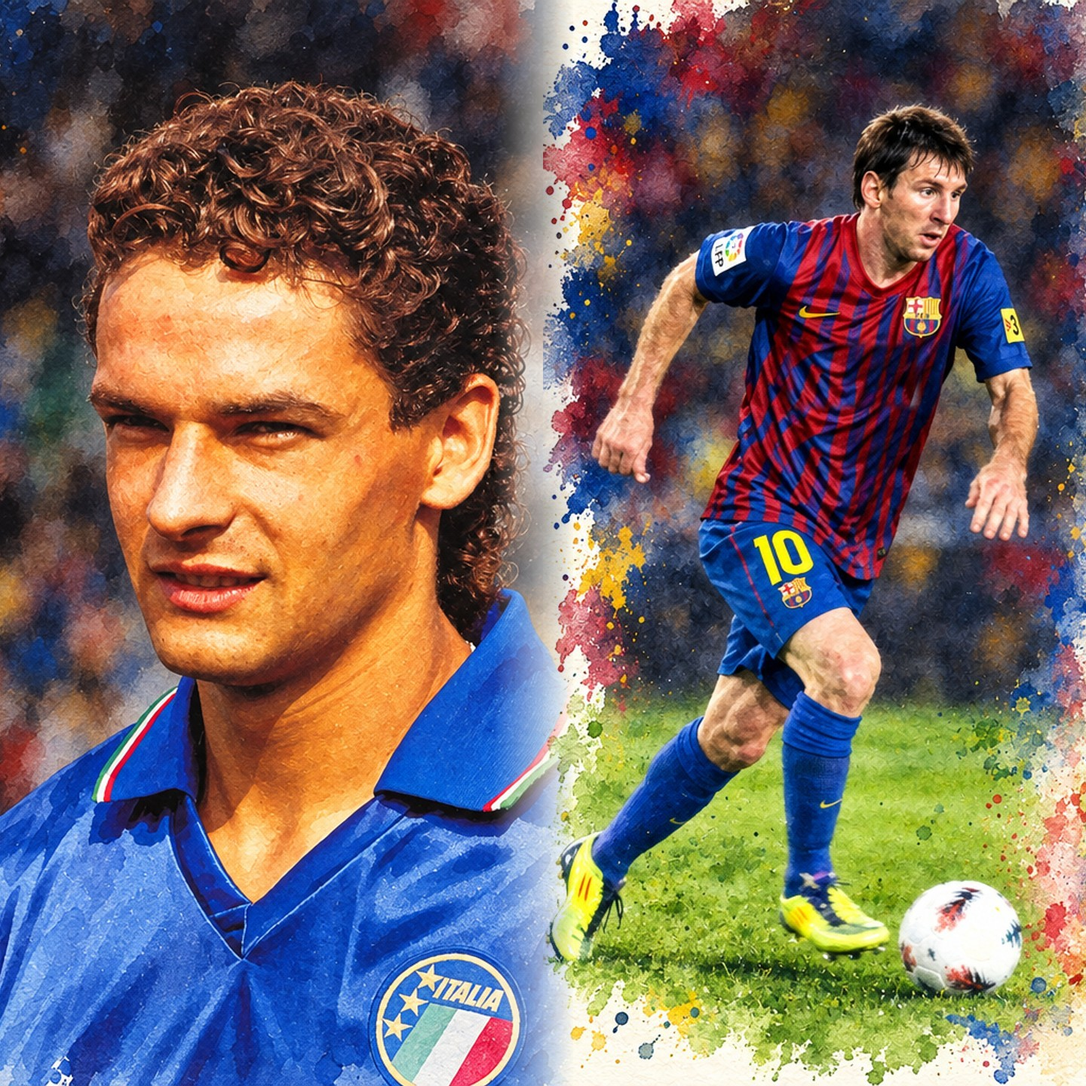
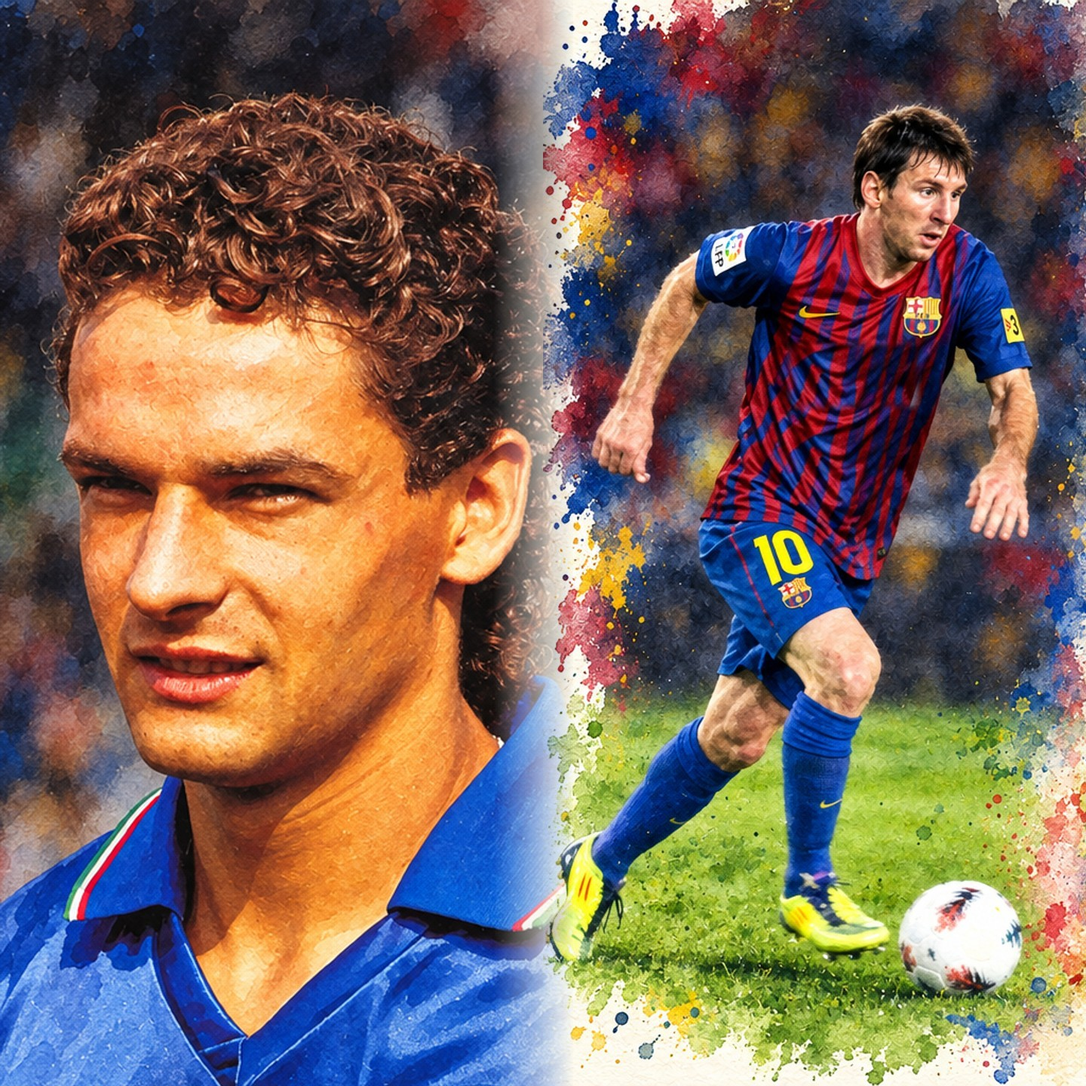
Second named outlets for 017, 026, 028, 031; 16 Nov picture and card 2 fixed to the picture standard
- 017 Pirlo's boyhood idol and free transfer, 026 Michel Goba and Le Mans in Ligue 2, 028 youth players, Porto 2-0 and
  Rijkaard sending Messi on, 031 the winning penalty: each now on two outlets, searches restricted to one outlet each
- 031: "counted as the 1,000th goal" (a 1995 recount put it on 14 Nov; 19 Nov is the accepted date)
- 028: Baggio zoomed so the Italy crest is out of frame, not cut; Messi unchanged; kit exceptions recorded as
  owner-approved; fact 1 reworded so the 1-0 score no longer breaks across two lines on card 2
- stale story numbers in 026, 028 and 031 logs

Claude-Session: https://claude.ai/code/session_01KFrvz6d1CHFi9rozrKkMUw

diff --git a/docs/fact-checks/028.md b/docs/fact-checks/028.md
@@ -1,6 +1,6 @@
 # Fact-check log: 028 Baggio v Messi / Two debuts on 16 November, and the man who was at both
 
-Slot: Monday 16 November 2026 ("On this day" comparison). Not a story-bank angle. Rewritten 26 October 2026 from the earlier Henry v Baggio draft, because Henry is already on 1 November (Henry v Kaká). The Henry material is kept in alternatives.md.
+Slot: Monday 16 November 2026 ("On this day" comparison). Not a story-bank angle. Rewritten 26 October 2026 from the earlier Henry v Baggio draft, because Henry is already on 1 November (Henry v Kaká). The Henry material is not used anywhere (the drafts folder and its alternatives.md were cleared on 26 Oct).
 
 Checked 26 October 2026. Method note: page fetching is blocked from this session (WebFetch cannot reach any site), so every claim was checked against web-search result excerpts and the search tool's summaries of the pages named below, not by opening the full pages. Searches were restricted to named outlets (allowed domains) so that each excerpt can be attributed to one outlet. Where the tool summarised several pages in one sentence without saying which page said what, the row says "per search summary" and lists the pages returned. One row rests on a row already confirmed in this repository's own log docs/fact-checks/008.md; its sources are named as logged there. Before scheduling, an editor should open the 11v11 and eu-football.info match pages for Italy v Netherlands (16 Nov 1988) to see Frank Rijkaard in the Dutch line-up, and FC Barcelona's "21 years since Leo Messi debuted" page.
 
@@ -12,10 +12,10 @@ Living-persons rule: Baggio, Messi, Rijkaard, Van Basten, Gullit, Sacchi, Mourin
 | He was 21 (born 18 Feb 1967) | ESPN Roberto Baggio biography ("Birthdate 2/18/1967") | Goal.com (Turkish) Baggio profile ("18 Şubat 1967'de ... Caldogno") | Confirmed. 18 Feb 1967 to 16 Nov 1988 = 21. |
 | 16 Nov 2003: Messi's first game for Barcelona's first team, a friendly at Porto; he was 16 | FC Barcelona "21 years since Leo Messi debuted for FC Barcelona" and "All time stats for Messi in the Barça youth teams" (16 years 145 days) | UEFA, per search summary ("16 years, four months and 23 days", the same day count); Goal.com (Spanish) "A 20 años del ... debut de Messi"; ESPN Deportes "Hace 15 años Lionel Messi debutaba con primer equipo del Barça" | Confirmed. Exact age differs in one outlier (Sky Sports: 16 years 157 days): the text says only "16". |
 | The match was the first game at Porto's new stadium, the Estádio do Dragão | UEFA.com "Porto enter the dragon" (17 Nov 2003: stadium inaugurated the night before with a friendly, FC Porto v FC Barcelona) | FC Barcelona "21 years since..." (came on "to open Porto's new ground"); Goal.com (Mexico) Estádio do Dragão guide ("inaugurado el 16 de noviembre de 2003 en un amistoso entre el Porto y el Barcelona") | Confirmed. "Built for Euro 2004" not checked: not used. |
-| Barcelona's side that night included several youth players | FC Barcelona, per search summary ("The first team needed youth players to play in a friendly against Porto at the opening of the Estadio Do Dragao") | ESPN Deportes, per search summary (Barcelona, "with many youth players", lost 2–0) | Confirmed in substance; worded as "included several youth players". Why they were needed (internationals away) not checked: not used. |
-| Messi came on in the second half, for Fernando Navarro | FC Barcelona "21 years since..." (71st minute, for Navarro) and "Ten years since Leo Messi's debut" (75th minute, for Navarro) | Goal.com (Spanish), per search summary (75th minute, for Navarro; another Goal piece 71st) | Confirmed. The minute differs (71 or 75): the text says only "in the second half". |
-| Porto won 2–0 | ESPN Deportes, per search summary (Barcelona "lost 2-0") | Goal.com, per search summary ("Porto's 2-0 win"); FC Barcelona "17 years since Leo Messi's debut", per search summary ("The Catalans lost 2-0") | Confirmed. |
-| Barcelona's coach was Frank Rijkaard, and he sent Messi on | FC Barcelona, per search summary ("Coach Frank Rijkaard sent him on the 71st minute") | Goal.com, per search summary ("Frank Rijkaard introduced the 16-year-old in the 71st minute") | Confirmed. |
+| Barcelona's side that night included several youth players | FC Barcelona (search restricted to fcbarcelona.com; "All time stats for Messi in the Barça youth teams", "17 years since Leo Messi's debut" and "20 years since Leo Messi debuted for FC Barcelona" listed): "Frank Rijkaard was the manager and he decided to take a number of players from the U19 team to Portugal" | ESPN Deportes (search restricted to espndeportes.espn.com; "A 17 años del debut de Messi con el Barcelona: ¿Qué pasó con los cinco jóvenes que tuvieron su oportunidad con el argentino?" listed first): "Un Barça con muchos canteranos cayó 2-0 ante el Porto de José Mourinho"; the headline counts five young players given their chance alongside Messi. Also Goal (search restricted to goal.com), "El año que Lionel Messi voló: del Juvenil B al primer equipo en solo seis meses": "Messi, como las otras perlas del juvenil, como Jordi Gómez, Oriol Riera o Xavi Girard, viajó hasta Oporto" | Confirmed (fourth pass): two named outlets, each from a search restricted to that outlet, plus Goal; the earlier "per search summary" excerpts are replaced. The lists of names differ (three to five youth players, e.g. Oriol Riera, Jordi Gómez, Manel Expósito, Xavier Ginard, Tiago Calvano), so the text keeps "several" and names none. Why they were needed (internationals away) not checked: not used. |
+| Messi came on in the second half, for Fernando Navarro | FC Barcelona "21 years since..." (71st minute, for Navarro) and "Ten years since Leo Messi's debut" (75th minute, for Navarro) | Goal.com (Spanish), per search summary (75th minute, for Navarro; another Goal piece 71st) | Confirmed. The minute differs (71 or 75; FC Barcelona's match record has 74): the text says only "in the second half". Fourth pass: the FC Barcelona excerpt in the Rijkaard row ("in place of Fernando Navarro", fcbarcelona.com only) and ESPN Deportes (search restricted to espndeportes.espn.com: "Lionel Messi entró al partido en el minuto 75 de juego, en sustitución de Fernando Navarro") now cover Navarro from restricted searches. |
+| Porto won 2–0 | FC Barcelona (search restricted to fcbarcelona.com): "In the game at the Estadio do Dragao, which Barça would lose 2-0, coach Frank Rijkaard brought Messi on in the 71st minute in place of Fernando Navarro"; the club's match record "Porto - Barcelona (2-0) - Friendly - 16/11/2003" (players.fcbarcelona.com) | Goal (search restricted to goal.com; "A 20 años del día que cambió la historia del fútbol: el debut de Messi con el FC Barcelona" and "14 años del debut de Messi que lo enfrentó a Mourinho" listed): Porto ended up winning 2-0 in the inauguration of their new stadium (summary). Also ESPN Deportes (search restricted to espndeportes.espn.com): "Un Barça con muchos canteranos cayó 2-0 ante el Porto de José Mourinho" | Confirmed (fourth pass): two named outlets, each from a search restricted to that outlet, plus ESPN Deportes; the earlier "per search summary" excerpts are replaced. Note: the summary of a second goal.com-only search misread the score as a Barcelona win; the goal.com score search above and every other outlet give Porto 2–0. |
+| Barcelona's coach was Frank Rijkaard, and he sent Messi on (body; also title, dek, hook and fact card 4) | FC Barcelona (search restricted to fcbarcelona.com; "16 years since Messi's debut", "17 years since Leo Messi's debut" and "22 years since Leo Messi debuted for FC Barcelona" listed): "In the game at the Estadio do Dragao, which Barça would lose 2-0, coach Frank Rijkaard brought Messi on in the 71st minute in place of Fernando Navarro" | Goal (search restricted to goal.com), "Lionel Messi reveals shock 'childhood dream' that was scotched by Barcelona debut": "Frank Rijkaard introduced the 16-year-old in the 71st minute". Also ESPN Deportes (search restricted to espndeportes.espn.com): Rijkaard called Messi up with five other youth players for the match, and Messi came on for Navarro (summary) | Confirmed (fourth pass): two named outlets, each from a search restricted to that outlet, with wording that names Rijkaard as the one who brought Messi on; the earlier "per search summary" excerpts are replaced. A uefa.com-only search confirmed the friendly and Mourinho's Porto but did not name who sent Messi on. Title, dek, hook and card 4 stand. |
 | His first official game came 11 months later, a 1–0 win at Espanyol; he was 17 | FC Barcelona "16 years today since Leo Messi's debut" (16 Oct 2004) | Goal.com (Argentina) "Lionel Messi debutó con el Barcelona ante el Espanyol"; per search summary: Montjuïc, 1–0, aged 17 years 3 months 22 days | Confirmed. "Youngest official player" claims (later broken) not used. |
 | In 1985, aged 18, Baggio badly injured his right knee playing for Vicenza against Rimini | FIFA (German) "Italiens göttliche Grazie" (serious right-knee injury in the last match of 1984/85, against Rimini) | ESPN "Fiorentina's 'Baggio' bet on Rossi" (3 May 1985, Vicenza v Rimini, right knee) | Confirmed. Aged 18 by arithmetic (born Feb 1967). The exact damage (cruciate or meniscus) and that it came two days after he agreed to join Fiorentina are ESPN only: **not used**. |
 | He was out for more than a year | FIFA (German) (about a year and a half before he could play again) | ESPN (returned for his Serie A debut on 21 Sept 1986, about 16 months later) | Confirmed; the length differs slightly, so the text says "more than a year". |
@@ -38,4 +38,8 @@ Wording: the body says "On 16 November 1988/2003" (not "On this day") because th
 
 Cut or not used, for want of a second source or because sources conflict: Messi's exact age in days (one outlier) and the minute he came on (71 or 75); why Barcelona needed youth players; Mourinho being "the first to be surprised" by Messi (Goal only); Baggio's cruciate/meniscus damage and the "two days after signing for Fiorentina" detail (ESPN only); Fiorentina waiting for him (ESPN only); Sacchi described as "young"; Gianluca Vialli as the scorer of Italy's goal (44') and Baggio's assist (summary-level only; Vialli's goal appears in two summaries but was not needed); the venue (Stadio Olimpico) and attendance of Italy v Netherlands; the Dutch coach (Libregts or Michels); the FIGC 90th-anniversary context (a governing-body angle the owner rules out); Messi's "youngest official player" record; the Dragão being built for Euro 2004.
 
-Picture (26 Oct, approved by the owner): OpenAI's image filter refused every new Messi painting this day (five requests, no reason given) while Baggio painted normally. The owner chose a composite: Baggio painted from the public-domain Italia '90 photo, and Messi taken from the approved 29 Oct painting (Jeroen Bennink's 2011 photo, CC BY 2.0), with the 2011-12 Qatar Foundation sponsor removed. His shirt keeps the 2011-12 design and the number 10 on the shorts, not the 2003 debut kit.
+Picture (26 Oct, approved by the owner): OpenAI's image filter refused every new Messi painting this day (five requests, no reason given) while Baggio painted normally. The owner chose a composite: Baggio painted from the public-domain Italia '90 photo, and Messi taken from the approved 29 Oct painting (Jeroen Bennink's 2011 photo, CC BY 2.0), with the 2011-12 Qatar Foundation sponsor removed. His shirt keeps the 2011-12 design, the LFP sleeve patch, the number 10 on the shorts and a 2011-12 ball, not the 2003 debut kit: an owner-approved exception to the picture standard's period-kit rule, recorded in data/reference-photos.json. Baggio's shirt is the 1990 one from his photo; the 1988 debut shirt was not checked against it. Later the same day, after an independent check, Baggio's half was zoomed by about 15% so the Italy crest is out of frame instead of cut by the bottom edge (picture standard rule 2); Messi's half is unchanged, pixel for pixel. The share card and the Facebook picture now show both players whole.
+
+Fourth pass (26 October 2026, after an independent check): the three rows that rested on "per search summary" excerpts with no outlet restriction (several youth players, Porto won 2–0, Rijkaard sent Messi on) were searched again, each search restricted to one outlet's domain (fcbarcelona.com, goal.com, espndeportes.espn.com, uefa.com, espn.com) and named so in the rows. Each now rests on two named outlets with excerpts (FC Barcelona and Goal for the Rijkaard and 2–0 rows, FC Barcelona and ESPN Deportes for the youth-players row), with a third outlet in each row. The Navarro row notes the new restricted excerpts. Six URLs were added to the story's sources list. No text changed: body, title, dek, hook, question and fact cards are as before.
+
+Card 2 (26 Oct, after the fourth pass): fact 1 was reworded from "..., a 1–0 win over the Netherlands." to "... his first game for Italy. They beat the Netherlands 1–0." because the card broke the score across two lines ("a 1–" / "0 win"). Same facts, row 11 unchanged; the Reel was re-rendered and replaced on Facebook.

diff --git a/docs/fact-checks/026.md b/docs/fact-checks/026.md
@@ -2,12 +2,12 @@
 
 Checked 25-26 October 2026. Method note: page fetching was blocked in this session, so every claim was checked against web-search excerpts from the pages named below. Living-persons rule: football facts and his documented public appeal only.
 
-Third pass (26 October 2026, after an independent check): "sent to France at five" (title, dek, clue 1 and body) was searched again with each search restricted to one outlet's domain (allowed_domains: uefa.com, goal.com), and two named outlets now say five. The body was 134 words, under the 150-250 range for quizzes, so 24 words of sourced material were added (Chelsea signing him from Marseille in 2004, and his two Premier League Golden Boots), each line searched with the search restricted to one outlet (premierleague.com, chelseafc.com, skysports.com). Munich 2012 is reserved for story bank 054 and is not used. Excerpts in quotation marks are wording the search tool presented as the page's own (it does not always mark verbatim text, so treat them as near-verbatim); unquoted excerpts are its summary of that outlet's pages. Title, dek, hook, clues and answer are unchanged.
+Third pass (26 October 2026, after an independent check): "sent to France at five" (title, dek, clue 1 and body) was searched again with each search restricted to one outlet's domain (allowed_domains: uefa.com, goal.com), and two named outlets now say five. The body was 134 words, under the 150-250 range for quizzes, so 24 words of sourced material were added (Chelsea signing him from Marseille in 2004, and his two Premier League Golden Boots), each line searched with the search restricted to one outlet (premierleague.com, chelseafc.com, skysports.com). Munich 2012 is reserved for story bank 064 and is not used. Excerpts in quotation marks are wording the search tool presented as the page's own (it does not always mark verbatim text, so treat them as near-verbatim); unquoted excerpts are its summary of that outlet's pages. Title, dek, hook, clues and answer are unchanged.
 
 | Claim | Source 1 | Source 2 | Result |
 |---|---|---|---|
-| Born in Abidjan; sent to France at five to live with his uncle Michel Goba, a professional footballer (clue 1) | UEFA.com (search restricted to uefa.com), "How brilliant was Chelsea's final master Didier Drogba?": he was sent to France to live with his uncle "when he was just five" and lasted a few years before returning to Abidjan (summary around the quoted words); the earlier pass also recorded UEFA describing the uncle, Michel Goba, as "a journeyman professional" (per search summary) | Goal (search restricted to goal.com; "'We beg you on our knees': How Chelsea legend Didier Drogba helped halt a civil war" listed first): born in Abidjan in 1978, he moved to France at five to live with his uncle Michel Goba, a lower-division footballer (summary); Goal.com "Didier Drogba retirement: The incredible story of a Chelsea's legendary late bloomer" (first pass, per search summary); BlackPast | Confirmed (third pass): "five" now rests on two named outlets, each from a search restricted to that outlet, so the title, dek, clue 1 and body stand unchanged. The uncle's name is in the goal.com-only excerpt and in the earlier UEFA summary; this pass's uefa.com-only search did not return the name, so the name in the body rests on Goal plus the first-pass UEFA summary and BlackPast. Re-checked 26 Oct 2026: Wikipedia and the speakers-bureau biography dropped as counted sources. Later moves back and forth differ between sources (back to Abidjan at eight, to France again at eleven or fifteen); not used. |
-| Joined Le Mans (Ligue 2); first professional contract at 21, in 1999 (clue 2) | UEFA.com "How brilliant was Chelsea's final master Didier Drogba?" (he was studying accountancy in Le Mans "when he started playing for them in Ligue 2, but was 21 when he signed his first professional contract in 1999") | Goal.com "Didier Drogba net worth, wife and everything you need to know following his retirement" ("Drogba's first professional contract was signed in 1999 at the age of 21, considerably later than many of his team-mates") | Confirmed. Re-checked 26 Oct 2026: Wikipedia and the speakers-bureau biography dropped as counted sources. His age on arrival at Le Mans (18 or 19), the start year (1998 or 1999) and his debut month (January or May 1999) differ between sources; not used. |
+| Born in Abidjan; sent to France at five to live with his uncle Michel Goba, a professional footballer (clue 1) | UEFA.com (search restricted to uefa.com), "How brilliant was Chelsea's final master Didier Drogba?": he was sent to France to live with his uncle "when he was just five" and lasted a few years before returning to Abidjan (summary around the quoted words); the earlier pass also recorded UEFA describing the uncle, Michel Goba, as "a journeyman professional" (per search summary) | Goal (search restricted to goal.com; "'We beg you on our knees': How Chelsea legend Didier Drogba helped halt a civil war" listed first): born in Abidjan in 1978, he moved to France at five to live with his uncle Michel Goba, a lower-division footballer (summary); Goal.com "Didier Drogba retirement: The incredible story of a Chelsea's legendary late bloomer" (first pass, per search summary); BlackPast | Confirmed (third pass): "five" now rests on two named outlets, each from a search restricted to that outlet, so the title, dek, clue 1 and body stand unchanged. The uncle's name is in the goal.com-only excerpt and in the earlier UEFA summary; this pass's uefa.com-only search did not return the name, so the name in the body rests on Goal plus the first-pass UEFA summary and BlackPast. Fourth pass, the uncle's name: FIFA (search restricted to fifa.com), "Der Club – FIFA.com" interview (German): Drogba came from the Ivory Coast to France at five with his uncle Michel Goba, himself a professional footballer, whom he describes as a father figure (summary of the German text); Goal (search restricted to goal.com), "Didier Drogba retirement: The incredible story of a Chelsea's legendary late bloomer": "often following journeyman professional Michel Goba, his uncle, around the country until finally settling with his parents again in Paris aged 15"; another Goal page in the same search: "with his uncle, former professional football player Michel Goba, in France". Also ESPN (search restricted to espn.com), "Didier Drogba: The next chapter in his adventure comic career": "Sent to live in France with his uncle Michael Goba, himself a footballer" (ESPN spells the first name "Michael"; FIFA and Goal give "Michel"). The name and "a professional footballer" now rest on FIFA and Goal, plus ESPN; a uefa.com-only search again did not return the name; chelseafc.com, cnn.com and skysports.com searches found nothing either way. Re-checked 26 Oct 2026: Wikipedia and the speakers-bureau biography dropped as counted sources. Later moves back and forth differ between sources (back to Abidjan at eight, to France again at eleven or fifteen); not used. |
+| Joined Le Mans (Ligue 2); first professional contract at 21, in 1999 (clue 2) | UEFA.com "How brilliant was Chelsea's final master Didier Drogba?" (he was studying accountancy in Le Mans "when he started playing for them in Ligue 2, but was 21 when he signed his first professional contract in 1999") | Goal.com "Didier Drogba net worth, wife and everything you need to know following his retirement" ("Drogba's first professional contract was signed in 1999 at the age of 21, considerably later than many of his team-mates"). "Then in Ligue 2" (fourth pass): Goal (search restricted to goal.com), "'Chelsea's cult hero' - How did Didier Drogba perform in his club career?": "Drogba made his debut on May 22, 1999, in a Ligue 2 clash against Cannes"; Chelsea FC (search restricted to chelseafc.com), "Media Watch: Blues interested in French centre-back, Ferdinand praises James and Drogba's son signs for Italian side": "Didier began his time in professional football at Le Mans in the second tier of French football" | Confirmed. Re-checked 26 Oct 2026: Wikipedia and the speakers-bureau biography dropped as counted sources. His age on arrival at Le Mans (18 or 19), the start year (1998 or 1999) and his debut month (January or May 1999) differ between sources; not used. Fourth pass: "He joined Le Mans, then in Ligue 2" (body) says Le Mans were in the French second tier when he joined; it now rests on UEFA.com plus two named outlets, Goal and Chelsea FC. The tier's name: the second division was called Division 2 for at least part of his time there, and the rename date could not be pinned down (an LFP 2003–04 report has "Ligue 2 depuis 2000-2001"; a ligue1.com page dates the top flight's rename to 2002); UEFA and Goal both use "Ligue 2" for this period, so the wording was kept. Not changed. |
 | 8 October 2005: Ivory Coast won 3–1 in Sudan and qualified for their first World Cup; in the dressing room, on live television, Drogba appealed to both sides in the civil war to lay down their weapons (clue 3) | CNN (2017) | MyJoyOnline; sportanddev | Confirmed. What followed (a ceasefire "a week later") differs between sources; not used. |
 | **Added (body):** Chelsea had signed him from Marseille in 2004 | Premier League (search restricted to premierleague.com; Drogba's player profile and Hall of Fame pages listed): he was signed by Chelsea from Marseille in 2004, the same summer José Mourinho arrived (summary) | Chelsea FC (search restricted to chelseafc.com): "On 20 July 2004, Chelsea completed the signing of a promising Ivorian striker from Marseille", who had impressed in his one season there (summary around the quoted words) | Confirmed (third pass). The fee is not given. |
 | **Added (body):** He was the Premier League's top scorer twice, with 20 goals in 2006–07 and 29 in 2009–10 | Premier League (search restricted to premierleague.com; "Premier League Golden Boot Winners & Top Scorers List" listed): 2006/07, "20 goals in the top flight to earn his first Golden Boot"; 2009/10, "29 goals in 32 Premier League appearances to claim his second Golden Boot award" | Sky Sports (search restricted to skysports.com; "Drogba factfile" and the Chelsea 8–0 Wigan report listed): Sky's previous-winners list shows Drogba (Chelsea) with 20 goals in 2006/07; its Chelsea 8–0 Wigan report says he finished the 2009–10 campaign on 29 goals, after a hat-trick in that game, which clinched the award (summary) | Confirmed (third pass). Sky's 33 goals for 2006–07 counts all competitions; the body gives league goals only. |
@@ -16,3 +16,5 @@ Third pass (26 October 2026, after an independent check): "sent to France at fiv
 Picture: painted from "File:Didier Drogba Champions League Winner medal.jpg" (rayand, CC BY 2.0), checked against the picture standard.
 
 Body changed in the third pass: added "Chelsea had signed him from Marseille in 2004. He was the Premier League's top scorer twice, with 20 goals in 2006–07 and 29 in 2009–10." as its own paragraph after the 2005 paragraph, and "At Chelsea he became the man for finals." became "He also became the man for finals." (Chelsea is now named in the line before). Body 134 to 158 words. Quiz clues, title, dek, hook and answer unchanged.
+
+Fourth pass (26 October 2026, after an independent check): two points re-searched, each search restricted to one outlet's domain (fifa.com, goal.com, espn.com, uefa.com, chelseafc.com, cnn.com, skysports.com) and named so in the rows. (1) The uncle's name, Michel Goba, and that he was a professional footballer now rest on FIFA and Goal, plus ESPN (which spells it "Michael"). (2) "Then in Ligue 2" refers to Le Mans, the club he joined; it now has Goal and Chelsea FC alongside UEFA.com. Four URLs were added to the story's sources list. No text changed: body, title, dek, hook, clues and answer are as before.

diff --git a/docs/fact-checks/031.md b/docs/fact-checks/031.md
@@ -1,6 +1,6 @@
 # Fact-check log: 031 Pelé v Cristiano Ronaldo / A 1,000th goal, a hat-trick in Sweden and one night in Zurich
 
-Slot: Thursday 19 November 2026 ("On this day" comparison). Not a story-bank angle. Rewritten 26 October 2026 from the earlier Pelé v Ronaldinho draft, because Ronaldinho and his 2005 Ballon d'Or are already the second half of the 28 November comparison (Riquelme v Ronaldinho). The Ronaldinho Bernabéu night (19 November 2005) is reserved in docs/story-bank.md as angle 047 for a later regular story; it is not used here.
+Slot: Thursday 19 November 2026 ("On this day" comparison). Not a story-bank angle. Rewritten 26 October 2026 from the earlier Pelé v Ronaldinho draft, because Ronaldinho and his 2005 Ballon d'Or are already the second half of the 28 November comparison (Riquelme v Ronaldinho). The Ronaldinho Bernabéu night (19 November 2005) is reserved in docs/story-bank.md as angle 048 for a later regular story; it is not used here.
 
 Checked 26 October 2026. Method note: page fetching is blocked from this session (WebFetch cannot reach any site), so every claim was checked against web-search result excerpts and the search tool's summaries of the pages named below, not by opening the full pages. Searches were restricted to named outlets (allowed domains) so that each excerpt can be attributed to one outlet. Where the tool summarised several pages in one sentence without saying which page said what, the row says "per search summary" and lists the pages returned. The Pelé rows marked "kept" were confirmed in the earlier version of this log (same date) and are carried over unchanged, except where a new source is added. Two rows rest on rows already confirmed in this repository's own logs (docs/fact-checks/010.md and 014.md); their sources are named as logged there. Before scheduling, an editor should open the CNN pages of 19 November 2013 and 20 November 2013 and the ESPN Ballon d'Or voting piece.
 
@@ -10,10 +10,10 @@ Living-persons rule: Cristiano Ronaldo, Zlatan Ibrahimović, Pauleta and Lionel 
 
 | Claim | Source 1 | Source 2 | Result |
 |---|---|---|---|
-| 19 Nov 1969: Pelé's 1,000th goal (kept) | El Comercio archive ("El 19 de noviembre de 1969, Pelé marcó su gol mil en el mítico Maracaná") | DH Net ("19 novembre 1969: Pelé marque son 1000e but"); History.com "Pelé scores 1,000th goal"; Santos FC "O milésimo gol do Rei" | Confirmed. |
+| 19 Nov 1969: Pelé's 1,000th goal (kept); body since the fourth pass: "It was counted as the 1,000th goal of his career" | El Comercio archive ("El 19 de noviembre de 1969, Pelé marcó su gol mil en el mítico Maracaná") | DH Net ("19 novembre 1969: Pelé marque son 1000e but"); History.com "Pelé scores 1,000th goal"; Santos FC "O milésimo gol do Rei"; FIFA (search restricted to inside.fifa.com; "19 novembre 1969 : Pelé tape dans le mille" listed): "La date du 19 novembre 1969 est désormais indissociable d'un grand moment de l'histoire du football." | Confirmed as the accepted count. Fourth pass: the count itself was contested (see the Open point, now resolved), so the body says "counted as the 1,000th", which is true on any reading. Title, dek, hook and fact card 1 unchanged: they follow the accepted count, as every outlet checked does. |
 | It was a penalty, against Vasco da Gama (kept) | History.com ("on a penalty kick against Vasco da Gama") | El Gráfico "El día del gol 1000 de Pelé" (penalty after a Vasco defender fouled him) | Confirmed. Who committed the foul differs between Brazilian accounts (Renê or Fernando): not named. |
 | At the Maracanã | Santos FC (search restricted to santosfc.com.br; "O milésimo gol do Rei", "O milésimo gol do Rei Pelé" and "Milésimo de Pelé, o maior espetáculo da Terra" listed): "O espetáculo atraiu 65.157 pessoas ao Maracanã." | ESPN Brasil (search restricted to espn.com.br), "Há 52 anos, Pelé marcou seu milésimo gol em vitória do Santos": "A marca foi alcançada na vitória do Santos por 2 a 1 contra o Vasco, no Maracanã, no dia 19 de novembro de 1969."; El Comercio (caption above, explicit) | Confirmed (third pass): two outlets, each from a search restricted to that outlet, plus El Comercio. |
-| Santos won 2–1; the penalty was the winner | Rio Negro (the goal "made it 2–1 for Santos") | Santos FC (search restricted to santosfc.com.br): "o Peixe venceu o Vasco da Gama pelo placar de 2 a 1"; ESPN Brasil (search restricted to espn.com.br): "vitória do Santos por 2 a 1 contra o Vasco" | Confirmed (third pass). What a Howler (first pass) is no longer counted. That the penalty was the winning goal (not just that Santos won 2–1) is explicit in Rio Negro only among the excerpts; Santos FC and ESPN Brasil confirm the 2–1 score and the 1,000th goal in it. |
+| Santos won 2–1; the penalty was the winner | Rio Negro (the goal "made it 2–1 for Santos") | Santos FC (search restricted to santosfc.com.br): "o Peixe venceu o Vasco da Gama pelo placar de 2 a 1"; ESPN Brasil (search restricted to espn.com.br): "vitória do Santos por 2 a 1 contra o Vasco" | Confirmed (third pass). What a Howler (first pass) is no longer counted. Fourth pass, the penalty as the winner: FIFA (search restricted to inside.fifa.com), "1.000 Tore: Pelés historischer Treffer": "Zwölf Minuten waren noch zu spielen. Es stand 1:1 im entscheidenden Spiel um den Robertão"; FIFA, "Maracana: Seven momentous matches from its 70 years" (entry "Vasco 1-2 Santos"): "With 12 minutes remaining, Pele became the first player in history to reach 1,000 career goals." 1–1 before the penalty and 2–1 at the end make it the winner. Also ESPN Brasil (search restricted to espn.com.br), "Culpa, cobrança e negação: como é a vida do homem que cometeu o pênalti do gol mil de Pelé": Pelé converted and scored Santos's second goal against Vasco (summary). "It also won the game" now rests on two named outlets, Rio Negro and FIFA, plus ESPN Brasil. |
 | More than 65,000 people were there | El Comercio ("más de 65 mil") | Santos FC (search restricted to santosfc.com.br): "O espetáculo atraiu 65.157 pessoas ao Maracanã"; another club page gives 65,167 | Confirmed (third pass). The figures differ slightly but all exceed 65,000, so the text says "more than 65,000". No exact figure given. Mancunian Matters (80,000, first pass) is no longer counted. |
 | 19 Nov 2013: Sweden 2–3 Portugal, World Cup play-off second leg, in Solna, just outside Stockholm; Ronaldo scored a hat-trick | UEFA.com "Ronaldo hat-trick takes Portugal past Sweden" | CNN "Cristiano Ronaldo hat-trick fires Portugal to 2014 World Cup finals" (19 Nov 2013, "3-2 victory in Solna"); ESPN match page 382194; Sky Sports match page (Friends Arena, Solna, near Stockholm) | Confirmed. Attendance (49,766) from one excerpt: not used. |
 | Portugal went to the World Cup (2014, Brazil) | CNN (headline, as above) | UEFA.com (as above, "sealed Portugal's place at the 2014 finals in Brazil") | Confirmed. |
@@ -41,4 +41,13 @@ Not attempted: Ronaldo's current career goal total and any 1,000-goal comparison
 
 Open point (third pass): ESPN Brasil's own article notes that some publications' recounts of Pelé's goals put his 1,000th on 14 November 1969, in a 3–0 win over Botafogo-PB in João Pessoa, rather than the Maracanã penalty. The story follows the count that Santos FC, ESPN Brasil's headline, History.com, El Comercio and DH Net all use (19 November 1969). The title, dek, hook and fact card 1 depend on it, so nothing was changed; if the editor wants to acknowledge the recount, a body-only clause such as "the goal counted as his 1,000th" would do it.
 
+Resolved (fourth pass, 26 October 2026). What the outlets say, each search restricted to one domain:
+- ESPN Brasil (search restricted to espn.com.br), "Há 50 anos, milésimo gol de Pelé causou polêmica e 'guerra' entre jornalistas por causa do Corinthians e do Paulistão": in 1969 A Gazeta Esportiva and A Cidade de Santos kept different counts (995 against 993 in October); in 1995 the Folha de S.Paulo argued, after three months of research, that the 1,000th came on 14 November in the friendly against Botafogo-PB in João Pessoa; even so, "a data de 19 de novembro prevaleceu como o dia da consagração do milésimo gol para todo mundo". The same outlet notes that nobody has established exactly how many goals Pelé scored (summary).
+- Santos FC (search restricted to santosfc.com.br): 14 November in João Pessoa was goal 999 (a penalty in a 3–0 win), and the 1,000th was the penalty against Vasco on 19 November (summary). One Santos page dates the 1,000th differently (a 1972 goal in Chicago); it conflicts with the club's other pages and is not followed.
+- Lance! (search restricted to lance.com.br): the João Pessoa match was goal 999 and the official 1,000th was the Maracanã penalty (summary). ESPN (search restricted to espn.com) and FIFA (inside.fifa.com) also give 19 November 1969 at the Maracanã, against Vasco.
+- Not searchable: folha.uol.com.br and acervo.folha.com.br returned no results; globo.com, uol.com.br, estadao.com.br and bbc.com are closed to the search tool. The Folha recount is therefore known only as ESPN Brasil reports it.
+Conclusion: 19 November 1969 is the accepted count everywhere checked, but the count was contested in 1969 and challenged in 1995. The body now says "It was counted as the 1,000th goal of his career" (was: "It was the 1,000th goal of his career."). The recount itself is not stated in the story (one outlet only). Title, dek, hook and fact cards unchanged. "Pelé's thousandth goal" (body, after the reveal line) and "Pelé needs one kick to reach a thousand" (reflection) follow the count just introduced and were left as they are.
+
 Picture (26 Oct): Pelé from Anefo's 1965 close-up (CC0, Nationaal Archief), painted in colour in Santos white; Ronaldo from Fanny Schertzer's photo at Croatia v Portugal, 10 June 2013 (CC BY-SA 3.0), in which he wears a Portugal track jacket, repainted in Portugal's 2013 home shirt per the picture guide's period rule.
+
+Fourth pass (26 October 2026, after an independent check): two points re-searched, each search restricted to one outlet's domain (inside.fifa.com, espn.com.br, santosfc.com.br, lance.com.br, espn.com) and named so in the rows. (1) "It also won the game" now has a second named outlet, FIFA (1–1 with 12 minutes left; Vasco 1–2 Santos), alongside Rio Negro. (2) The 14 November recount: the body's first Pelé line changed from "It was the 1,000th goal of his career." to "It was counted as the 1,000th goal of his career." (body only, 325 to 327 words). The two FIFA pages and two ESPN Brasil pages were added to the story's sources list. No card field changed (title, dek, hook, question, facts).

diff --git a/docs/fact-checks/017.md b/docs/fact-checks/017.md
@@ -8,10 +8,12 @@ Third pass (26 October 2026, after an independent check): the rows whose second 
 |---|---|---|---|
 | Serie A debut for Brescia, 21 May 1995, aged 16; the club's youngest Serie A player (clue 1) | Italy On This Day | Sky Sport Italia (search restricted to sport.sky.it; "Andrea Pirlo, la carriera in 40 foto", 19 May 2019, listed): on 21 May 1995 he came on for Marco Schenardi in the 79th minute of Reggiana–Brescia, "diventando a 16 anni e 2 giorni il più giovane debuttante della squadra lombarda nella massima serie" | Confirmed (third pass: Sky Sport Italia excerpt and URL added). Wikipedia pointer only. |
 | Played as a number 10 behind the strikers before the switch | UEFA.com (search restricted to uefa.com; "A tribute to U21 EURO ambassador Andrea Pirlo" and "Champions League 100 club: Andrea Pirlo" listed): at Inter, "Still playing as a fantasista behind two fowards [sic], Pirlo failed to make his mark with the Nerazzurri" | Goal (search restricted to goal.com; "Pirlo series vol. 2 - Brescia, dove nacque la leggenda" and "Le intuizioni di Mazzone" listed): Goal's Pirlo Series says he made his Serie A debut as a trequartista in 1995, and that he came back to Brescia in 2000/01 as a trequartista before Mazzone stopped playing him behind the strikers (summary); Forza Italian Football (first pass) | Confirmed (third pass): both counted sources now come from searches restricted to one outlet. Wikipedia pointer only. |
-| Back at Brescia on loan in 2000–01; Baggio, his childhood idol, had the No. 10 role, so Mazzone moved him to the base of midfield (clue 2) | Loan and switch: UEFA.com (search restricted to uefa.com): "Pirlo was loaned back to Brescia in January 2001, where Carlo Mazzone first deployed him as a deep-lying playmaker". Baggio's role as the reason: Goal (search restricted to goal.com; "Le intuizioni di Mazzone" and Goal's "Pirlo Series" listed): Mazzone told him, in effect, that Baggio was already playing the role in front, so Pirlo should drop back and play as the regista (summary) | Childhood idol: Forza Italian Football and The Football Faithful, "In praise of Pirlo" (first pass; no excerpt recorded) | Loan, Baggio in the role and the switch: confirmed (third pass) by UEFA.com and Goal. **"Childhood idol" / "boyhood hero" (body and clue 2) is the weakest point in this log:** it rests on Forza Italian Football and The Football Faithful only; restricted searches of goal.com and uefa.com for Baggio as Pirlo's idol found nothing either way. Wikipedia, previously counted here, is now a pointer only. Not changed, because clue 2 is on the already scheduled Reel cards; flagged for the editor. |
+| Back at Brescia on loan in 2000–01; Baggio, his childhood idol, had the No. 10 role, so Mazzone moved him to the base of midfield (clue 2) | Loan and switch: UEFA.com (search restricted to uefa.com): "Pirlo was loaned back to Brescia in January 2001, where Carlo Mazzone first deployed him as a deep-lying playmaker". Baggio's role as the reason: Goal (search restricted to goal.com; "Le intuizioni di Mazzone" and Goal's "Pirlo Series" listed): Mazzone told him, in effect, that Baggio was already playing the role in front, so Pirlo should drop back and play as the regista (summary) | Childhood idol (fourth pass): Sky Sport Italia (search restricted to sport.sky.it), "Svezia-Italia, Andrea Pirlo a Sky: 'In futuro allenatore o dirigente. Da piccolo tifavo Inter'" (9 Nov 2017), Pirlo on Baggio: "Era il mio idolo d'infanzia. Persona fantastica, un vero campione sia dentro sia fuori"; and "Juve, allerta Pirlo: 'Sette punti sulla Roma sono pochi'" (30 Jan 2015): "Il mio idolo? Da piccolo, era Baggio." FourFourTwo (search restricted to fourfourtwo.com), "The making of Pirlo: 'From an early age, I knew I was better than others'": at Inter in 1998 he "would be playing alongside Ronaldo, World Cup winner Youri Djorkaeff and childhood hero Roberto Baggio". Also Corriere dello Sport (search restricted to corrieredellosport.it), "Pirlo: «All'Inter realizzai il mio sogno...»" (15 Nov 2016, from Pirlo's interview with Marca): Baggio had always been his idol and he grew up watching him (summary). Forza Italian Football and The Football Faithful (first pass, no excerpt) are no longer counted for this point. | Loan, Baggio in the role and the switch: confirmed (third pass) by UEFA.com and Goal. "Childhood idol" (body) and "boyhood hero" (clue 2): confirmed (fourth pass) by Sky Sport Italia (Pirlo's own words, in two interviews) and FourFourTwo, plus Corriere dello Sport. Wording unchanged. Caveat: one sport.sky.it-restricted search summary says that in a 2017 interview (credited to Corriere dello Sport) Pirlo named Lothar Matthäus as his boyhood idol ("Da piccolo ero dell'Inter e il mio idolo era Matthaus"); a corrieredellosport.it-only search did not find that line. Having two boyhood idols does not contradict the text, which uses Pirlo's own phrase for Baggio; noted for the editor. Wikipedia is a pointer only. |
 | Ancelotti later used him in front of the defence at Milan | UEFA.com (search restricted to uefa.com, "A tribute to U21 EURO ambassador Andrea Pirlo"): "Milan traded Argentinian winger Andrés Guglielminpietro for Inter's Pirlo, with coach Carlo Ancelotti continuing to field him as a deep-lying playmaker" | Goal (search restricted to goal.com): Ancelotti benefited from Mazzone's change and made Pirlo the metronome of his winning Milan side; Pirlo credited Mazzone with moving him from trequartista to playmaker in front of the defence (summary); Forza Italian Football (first pass) | Confirmed (third pass). Goal's Pirlo Series says Pirlo himself pitched the deeper role to Ancelotti in pre-season; the body says only that Ancelotti used him there, which fits both accounts. UEFA credits Mazzone with the first deep deployment and puts the Brescia loan in January 2001; both fit clue 2 and the body ("In 2000–01"). |
-| Left Milan on a free transfer in 2011; Juventus won the league in all four of his seasons (clue 3) | UEFA.com ("failed to agree a new deal ... July 2011") | World Football Index; SBS The World Game (search restricted to sbs.com.au; "Heartfelt farewell as icon Pirlo hangs up his boots" listed): six Serie A titles, two with Milan and four with Juventus (summary) | Confirmed. SBS URL added to the story's sources (third pass). |
+| Left Milan on a free transfer in 2011; Juventus won the league in all four of his seasons (clue 3) | UEFA.com ("failed to agree a new deal ... July 2011") | World Football Index; SBS The World Game (search restricted to sbs.com.au; "Heartfelt farewell as icon Pirlo hangs up his boots" listed): six Serie A titles, two with Milan and four with Juventus (summary). Free transfer (fourth pass): ESPN (search restricted to espn.com), "Lewandowski, Pirlo and Campbell among the best free transfers ever": "So when the Milan board would offer him only a one-year extension (he wanted three years), Pirlo looked elsewhere and Juventus snapped him up"; ESPN "Top Tenner: Free transfers" ranks "1. Andrea Pirlo to Juventus"; another ESPN page (same search): "He won four consecutive Scudettos between 2011 and 2015". Sky Sport Italia (search restricted to sport.sky.it), "Calciomercato Juventus, gli acquisti a parametro zero dell'era Agnelli" and "Da Pirlo a Douglas Costa: Juventus, 7 anni di colpi di calciomercato": Pirlo was the first free signing (parametro zero) of the Agnelli era, made official on 24 May 2011 after nine seasons at Milan (summary) | Confirmed. SBS URL added to the story's sources (third pass). Fourth pass: "free transfer" now rests on UEFA.com plus two named outlets, ESPN and Sky Sport Italia, each from a search restricted to that outlet; ESPN also gives the four titles. Whether Milan or Pirlo ended talks is framed differently (ESPN: Milan offered only one year); the body's "Milan let him go" fits that account. |
 | Euro 2012 quarter-final v England, 24 June 2012: chipped his shootout penalty down the middle as Joe Hart dived (clue 4) | The42 | UEFA.com (search restricted to uefa.com; "Spot-on Italy edge past England into EURO 2012 semi-finals" and "My Magic Moment: Pirlo's Panenka penalty" listed): "Pirlo dinked his attempt impishly down the centre, hoodwinking England goalkeeper Joe Hart"; 0–0 after extra time in Kyiv, Italy won the shoot-out 4–2 (summary); Malay Mail | Confirmed (third pass: UEFA.com replaces Sportskeeda, which is no longer counted). |
 
 Cut for want of a second source: the shootout score at the moment of his kick.
 Picture: painted from "File:Andrea Pirlo BGR-ITA 2012.jpg" (Biser Todorov, derivative by Mess, CC BY 3.0), checked against the picture standard.
+
+Fourth pass (26 October 2026, after an independent check): two points re-searched, each search restricted to one outlet's domain (sport.sky.it, fourfourtwo.com, corrieredellosport.it, espn.com) and named so in the rows. (1) Baggio as Pirlo's "childhood idol" / "boyhood hero" now rests on Sky Sport Italia (Pirlo's own words, 2015 and 2017) and FourFourTwo, plus Corriere dello Sport; it is no longer the weakest point. A single summary mention of Matthäus as another boyhood idol is noted in the row. (2) The 2011 free transfer now has ESPN and Sky Sport Italia alongside UEFA.com. Seven URLs were added to the story's sources list. No text changed: body, title, dek, hook, clues and answer are as before.
